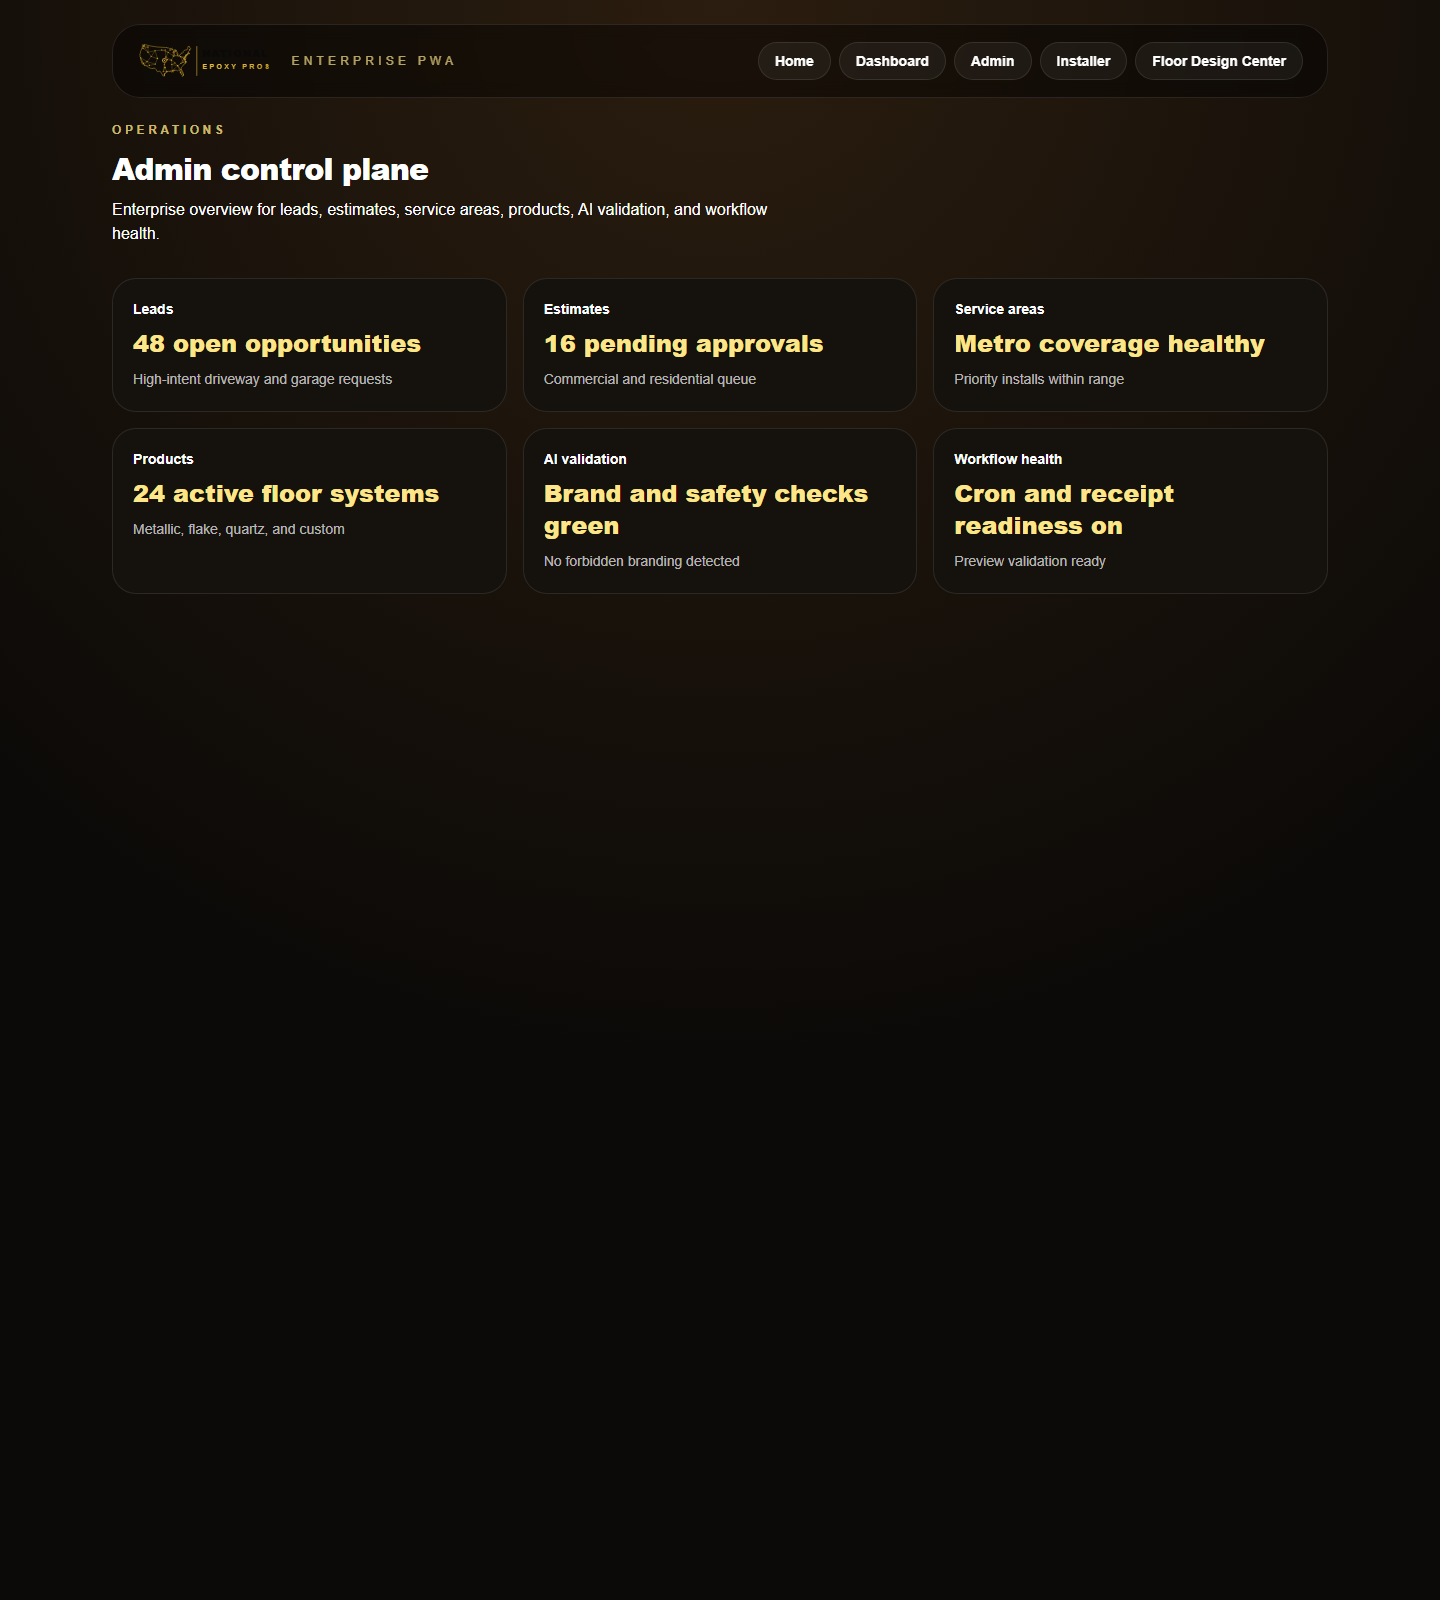
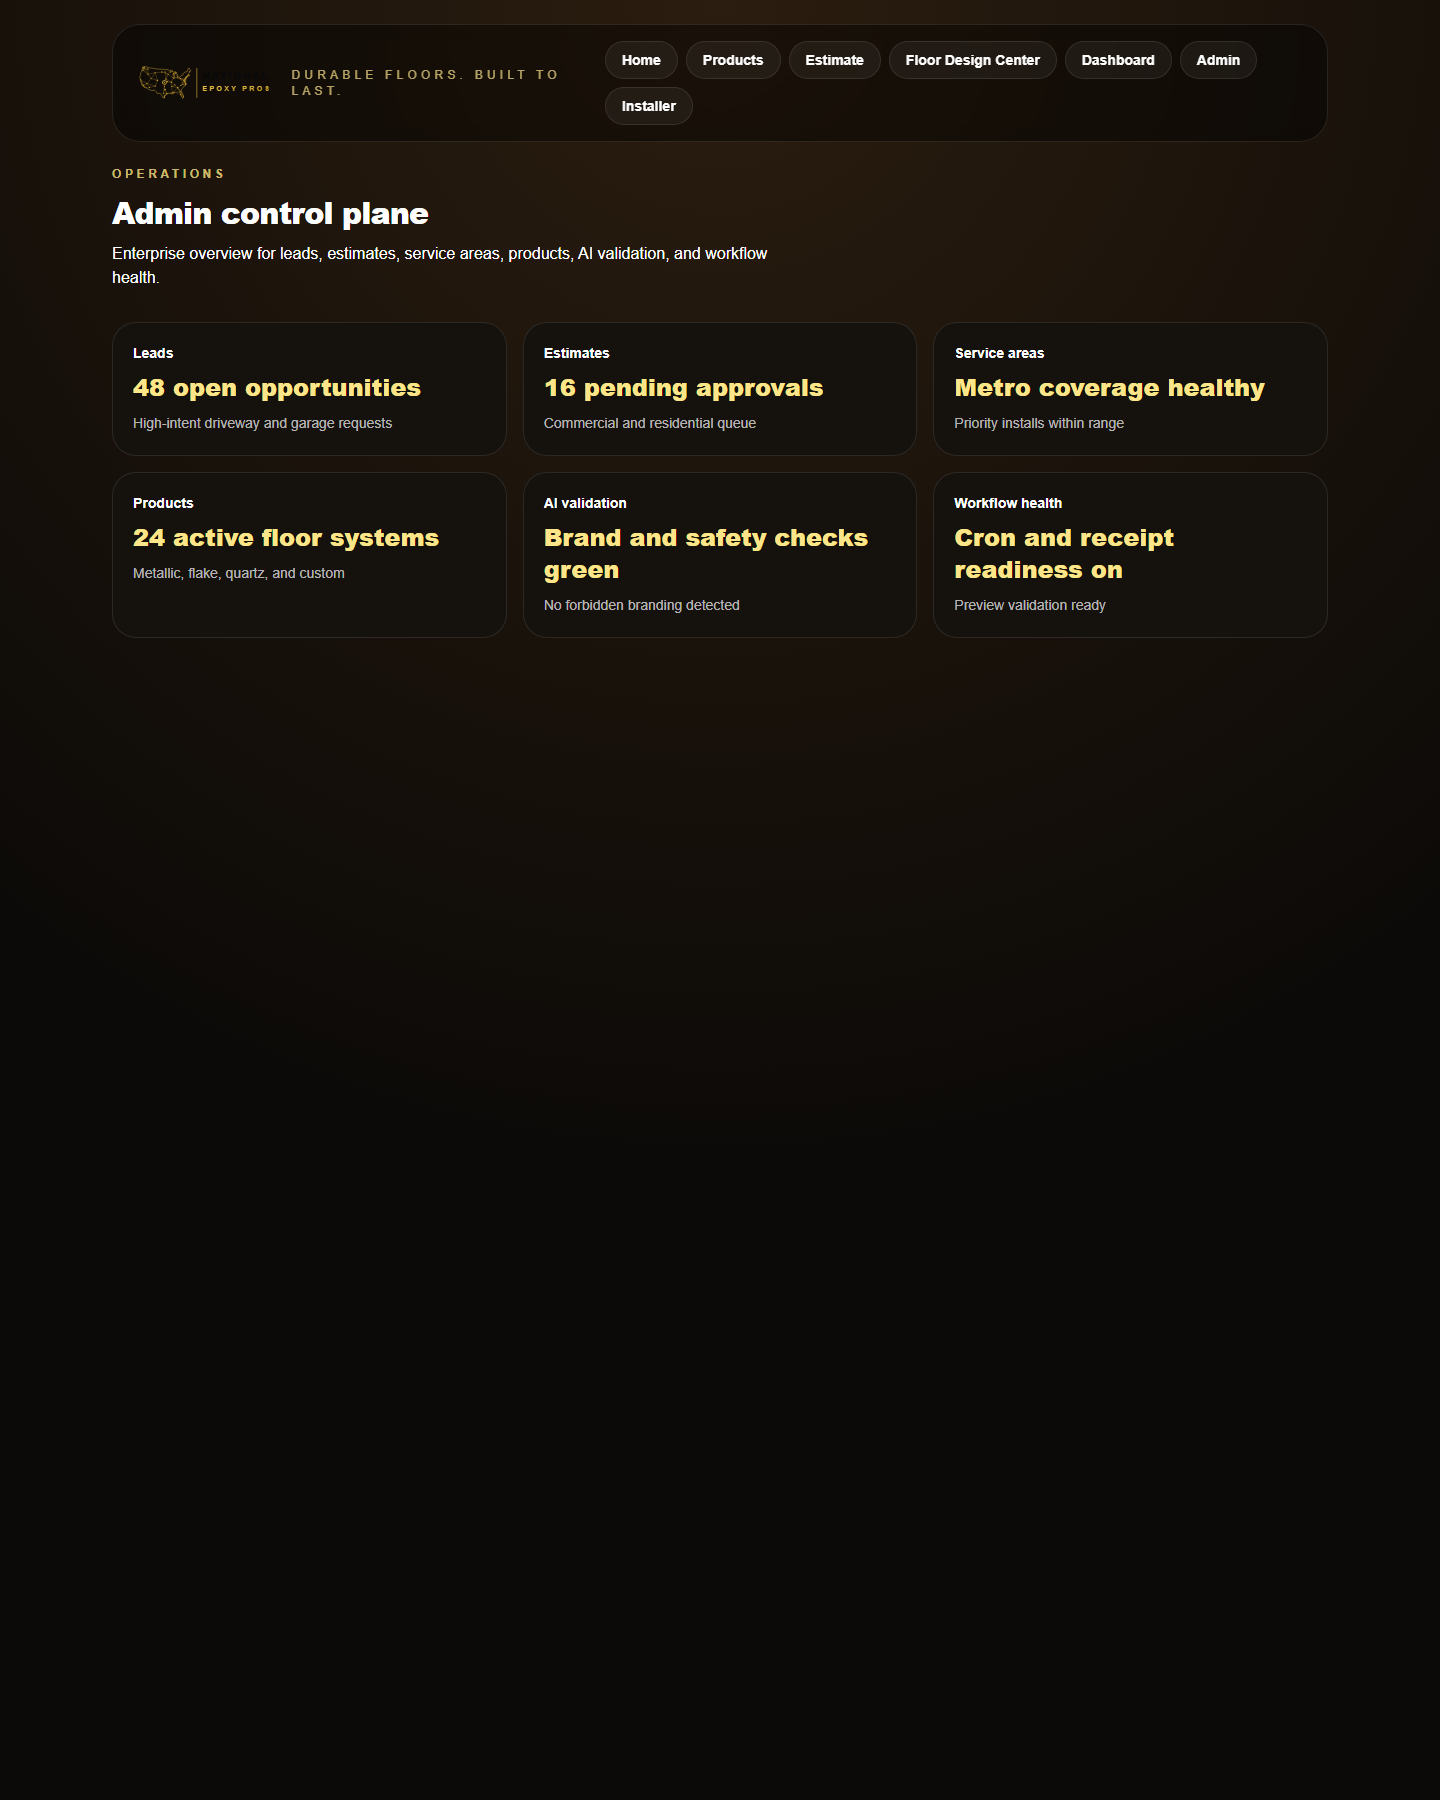
fix: align public routes with final workbook

diff --git a/components/quote/QuoteFunnel.tsx b/components/quote/QuoteFunnel.tsx
@@ -1,0 +1,49 @@
+import { Card } from "@/components/ui/Card";
+import { Button } from "@/components/ui/Button";
+
+const steps = ["Project details", "Photos", "System choice", "Contact", "Review"] as const;
+
+export function QuoteFunnel() {
+  return (
+    <section className="space-y-6">
+      <div className="space-y-2">
+        <p className="text-xs font-semibold uppercase tracking-[0.35em] text-amber-200/70">Digital Quote Funnel</p>
+        <h1 className="text-3xl font-black tracking-tight text-white sm:text-5xl">Get a fast, no-obligation quote for your project</h1>
+        <p className="max-w-3xl text-sm leading-7 text-white/70 sm:text-base">
+          Share your space, upload photos, and choose the floor system you want. We will review the request and return a clear estimate.
+        </p>
+      </div>
+      <div className="grid gap-6 lg:grid-cols-[1.1fr_0.9fr]">
+        <Card title="Step-based intake">
+          <div className="flex flex-wrap gap-2">
+            {steps.map((step, index) => (
+              <span key={step} className="rounded-full border border-white/10 bg-white/5 px-3 py-1 text-xs font-semibold text-white/75">
+                {index + 1}. {step}
+              </span>
+            ))}
+          </div>
+          <div className="mt-5 grid gap-3 sm:grid-cols-2">
+            {["Name", "Phone", "Email", "Zip code"].map((field) => (
+              <label key={field} className="grid gap-2 text-sm text-white/80">
+                {field}
+                <span className="rounded-2xl border border-white/10 bg-black/30 px-4 py-3 text-white/45">{field} input</span>
+              </label>
+            ))}
+          </div>
+          <div className="mt-5 flex flex-wrap gap-3">
+            <Button>Get my quote</Button>
+            <Button variant="secondary">Next step</Button>
+          </div>
+        </Card>
+        <Card title="What happens next">
+          <ul className="space-y-4 text-sm leading-7 text-white/75">
+            <li>• We review photos and project details.</li>
+            <li>• We match the right floor system and color family.</li>
+            <li>• We send a clear estimate and suggested install window.</li>
+            <li>• No payment is collected from this preview funnel.</li>
+          </ul>
+        </Card>
+      </div>
+    </section>
+  );
+}

diff --git a/components/products/ProductsGallery.tsx b/components/products/ProductsGallery.tsx
@@ -1,0 +1,37 @@
+import Link from "next/link";
+import { AssetFrame } from "@/components/ui/AssetFrame";
+import { Card } from "@/components/ui/Card";
+
+const products = [
+  { title: "Flake systems", src: "/color-charts/nep-color-chart-top-flake-v1.webp" },
+  { title: "Glitter systems", src: "/color-charts/nep-color-chart-glitter-v1.webp" },
+  { title: "Metallic systems", src: "/color-charts/nep-color-chart-metallic-v1.webp" },
+  { title: "Quartz systems", src: "/color-charts/nep-color-chart-quartz-v1.webp" }
+] as const;
+
+export function ProductsGallery() {
+  return (
+    <section className="space-y-6">
+      <div className="space-y-2">
+        <p className="text-xs font-semibold uppercase tracking-[0.35em] text-amber-200/70">Products</p>
+        <h1 className="text-3xl font-black tracking-tight text-white sm:text-5xl">Floor systems built for garages, homes, and commercial spaces</h1>
+      </div>
+      <div className="grid gap-4 sm:grid-cols-2 xl:grid-cols-4">
+        {products.map((product) => (
+          <Card key={product.title} title={product.title}>
+            <AssetFrame src={product.src} alt={product.title} className="aspect-[4/3] rounded-[1.25rem]" />
+            <div className="mt-4 text-sm leading-6 text-white/70">
+              Browse the approved color family and move into the design center or quote funnel.
+            </div>
+            <Link href="/floor-design-center" className="mt-4 inline-flex rounded-full bg-[#d4af37] px-4 py-2 text-sm font-bold text-black">
+              Explore in design center
+            </Link>
+          </Card>
+        ))}
+      </div>
+      <div className="rounded-[2rem] border border-white/10 bg-white/5 p-6 text-white/75">
+        Need a quote? <Link href="/estimate" className="font-semibold text-amber-200">Start the estimate funnel</Link>.
+      </div>
+    </section>
+  );
+}

diff --git a/components/home/PremiumHero.tsx b/components/home/PremiumHero.tsx
@@ -11,28 +11,28 @@ export function PremiumHero() {
           <div className="relative">
             <BrandLogo className="h-10 w-auto brightness-110" />
             <div className="mt-8 max-w-2xl">
-              <p className="text-xs font-semibold uppercase tracking-[0.35em] text-amber-200/80">Enterprise PWA / Premium Garage Finishes</p>
+              <p className="text-xs font-semibold uppercase tracking-[0.35em] text-amber-200/80">National Epoxy Pros</p>
               <h1 className="mt-4 text-4xl font-black tracking-tight text-white sm:text-6xl">
-                Luxury epoxy floors, showroom-grade visuals, and a quote-first digital bid funnel.
+                Durable floors. Built to last. Nationwide.
               </h1>
               <p className="mt-5 max-w-xl text-sm leading-7 text-white/72 sm:text-base">
-                National Epoxy Pros now presents the brand, the workflow, and the installer experience in one polished shell.
-                Use it to route leads, showcase floor systems, and move customers from inspiration to estimate with confidence.
+                Premium epoxy, flake, and polished concrete flooring for garages, homes, and businesses.
+                Move customers from inspiration to quote with a clean, customer-facing experience.
               </p>
             </div>
             <div className="mt-8 flex flex-wrap gap-3">
-              <Link href="/dashboard" className="rounded-full bg-[#d4af37] px-5 py-3 text-sm font-bold text-black">
-                View customer dashboard
+              <Link href="/estimate" className="rounded-full bg-[#d4af37] px-5 py-3 text-sm font-bold text-black">
+                Get my free quote
               </Link>
-              <Link href="/installer" className="rounded-full border border-white/15 bg-white/5 px-5 py-3 text-sm font-semibold text-white">
-                Open installer PWA
+              <Link href="/floor-design-center" className="rounded-full border border-white/15 bg-white/5 px-5 py-3 text-sm font-semibold text-white">
+                View floor systems
               </Link>
             </div>
             <div className="mt-8 grid gap-3 sm:grid-cols-3">
               {[
                 ["Quote-first funnel", "Capture intent before the estimate"],
-                ["Brand asset pack", "Installed and wired into the UI"],
-                ["Mobile PWA", "Installer flow optimized for field use"]
+                ["Nationwide service", "Licensed, insured, and built for fast installs"],
+                ["5-star reputation", "Trusted by homeowners and commercial clients"]
               ].map(([title, text]) => (
                 <div key={title} className="rounded-2xl border border-white/10 bg-white/5 p-4">
                   <div className="text-sm font-semibold text-white">{title}</div>

diff --git a/components/ui/Button.tsx b/components/ui/Button.tsx
@@ -1,3 +1,13 @@
-export function Button({ children }: { children: React.ReactNode }) {
-  return <button className="rounded-full border border-white/15 bg-[#d9a441] px-4 py-2 font-semibold text-black">{children}</button>;
+export function Button({
+  children,
+  variant = "primary"
+}: {
+  children: React.ReactNode;
+  variant?: "primary" | "secondary";
+}) {
+  const className =
+    variant === "primary"
+      ? "rounded-full border border-white/15 bg-[#d9a441] px-4 py-2 font-semibold text-black"
+      : "rounded-full border border-white/15 bg-white/5 px-4 py-2 font-semibold text-white";
+  return <button className={className}>{children}</button>;
 }

diff --git a/app/estimate/page.tsx b/app/estimate/page.tsx
@@ -1,0 +1,12 @@
+import { AppShell } from "@/components/layout/AppShell";
+import { Header } from "@/components/layout/Header";
+import { QuoteFunnel } from "@/components/quote/QuoteFunnel";
+
+export default function EstimatePage() {
+  return (
+    <AppShell>
+      <Header />
+      <QuoteFunnel />
+    </AppShell>
+  );
+}

diff --git a/app/products/page.tsx b/app/products/page.tsx
@@ -1,0 +1,12 @@
+import { AppShell } from "@/components/layout/AppShell";
+import { Header } from "@/components/layout/Header";
+import { ProductsGallery } from "@/components/products/ProductsGallery";
+
+export default function ProductsPage() {
+  return (
+    <AppShell>
+      <Header />
+      <ProductsGallery />
+    </AppShell>
+  );
+}

diff --git a/components/layout/Header.tsx b/components/layout/Header.tsx
@@ -3,10 +3,12 @@ import { BrandLogo } from "@/components/ui/BrandLogo";
 
 const nav = [
   ["/", "Home"],
+  ["/products", "Products"],
+  ["/estimate", "Estimate"],
+  ["/floor-design-center", "Floor Design Center"],
   ["/dashboard", "Dashboard"],
   ["/admin", "Admin"],
-  ["/installer", "Installer"],
-  ["/floor-design-center", "Floor Design Center"]
+  ["/installer", "Installer"]
 ] as const;
 
 export function Header() {
@@ -15,7 +17,7 @@ export function Header() {
       <div className="flex flex-col gap-4 lg:flex-row lg:items-center lg:justify-between">
         <Link href="/" className="flex items-center gap-4">
           <BrandLogo className="h-9 w-auto sm:h-10" />
-          <div className="hidden text-xs uppercase tracking-[0.35em] text-amber-200/70 sm:block">Enterprise PWA</div>
+          <div className="hidden text-xs uppercase tracking-[0.35em] text-amber-200/70 sm:block">Durable Floors. Built To Last.</div>
         </Link>
         <nav className="flex flex-wrap gap-2">
           {nav.map(([href, label]) => (

diff --git a/tests/e2e/routes.spec.ts b/tests/e2e/routes.spec.ts
@@ -1,5 +1,8 @@
 import { test, expect } from "@playwright/test";
 
-for (const route of ["/", "/dashboard", "/admin", "/installer", "/floor-design-center"]) {
-  test(`${route} loads`, async ({ page }) => { await page.goto(route); await expect(page).toHaveTitle(/National Epoxy Pros/); });
+for (const route of ["/", "/estimate", "/products", "/dashboard", "/admin", "/installer", "/floor-design-center"]) {
+  test(`${route} loads`, async ({ page }) => {
+    await page.goto(route);
+    await expect(page).toHaveTitle(/National Epoxy Pros/);
+  });
 }

diff --git a/tests/e2e/home.spec.ts b/tests/e2e/home.spec.ts
@@ -2,7 +2,7 @@ import { test, expect } from "@playwright/test";
 
 test("home hero and brand logo render", async ({ page }) => {
   await page.goto("/");
-  await expect(page.getByRole("heading", { name: /luxury epoxy floors/i })).toBeVisible();
+  await expect(page.getByRole("heading", { name: /durable floors\. built to last\. nationwide\./i })).toBeVisible();
   await expect(page.getByRole("img", { name: /national epoxy pros/i }).first()).toBeVisible();
-  await expect(page.getByText("quote-first digital bid funnel", { exact: false })).toBeVisible();
+  await expect(page.getByText("quote-first funnel", { exact: false })).toBeVisible();
 });